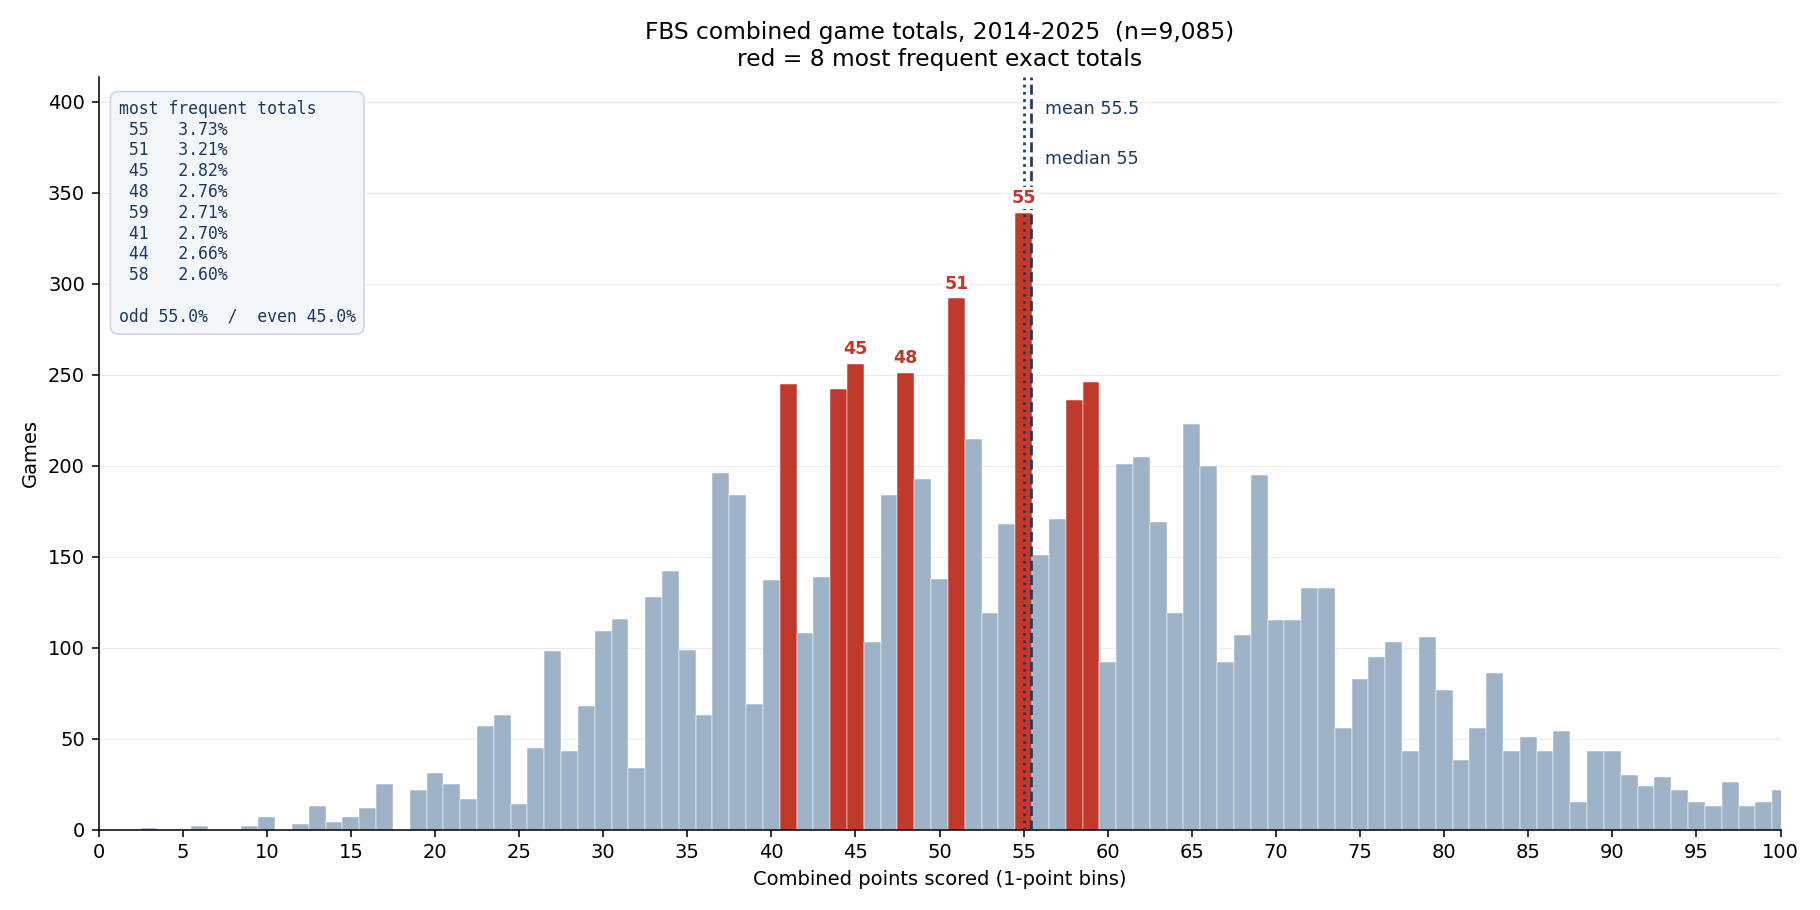
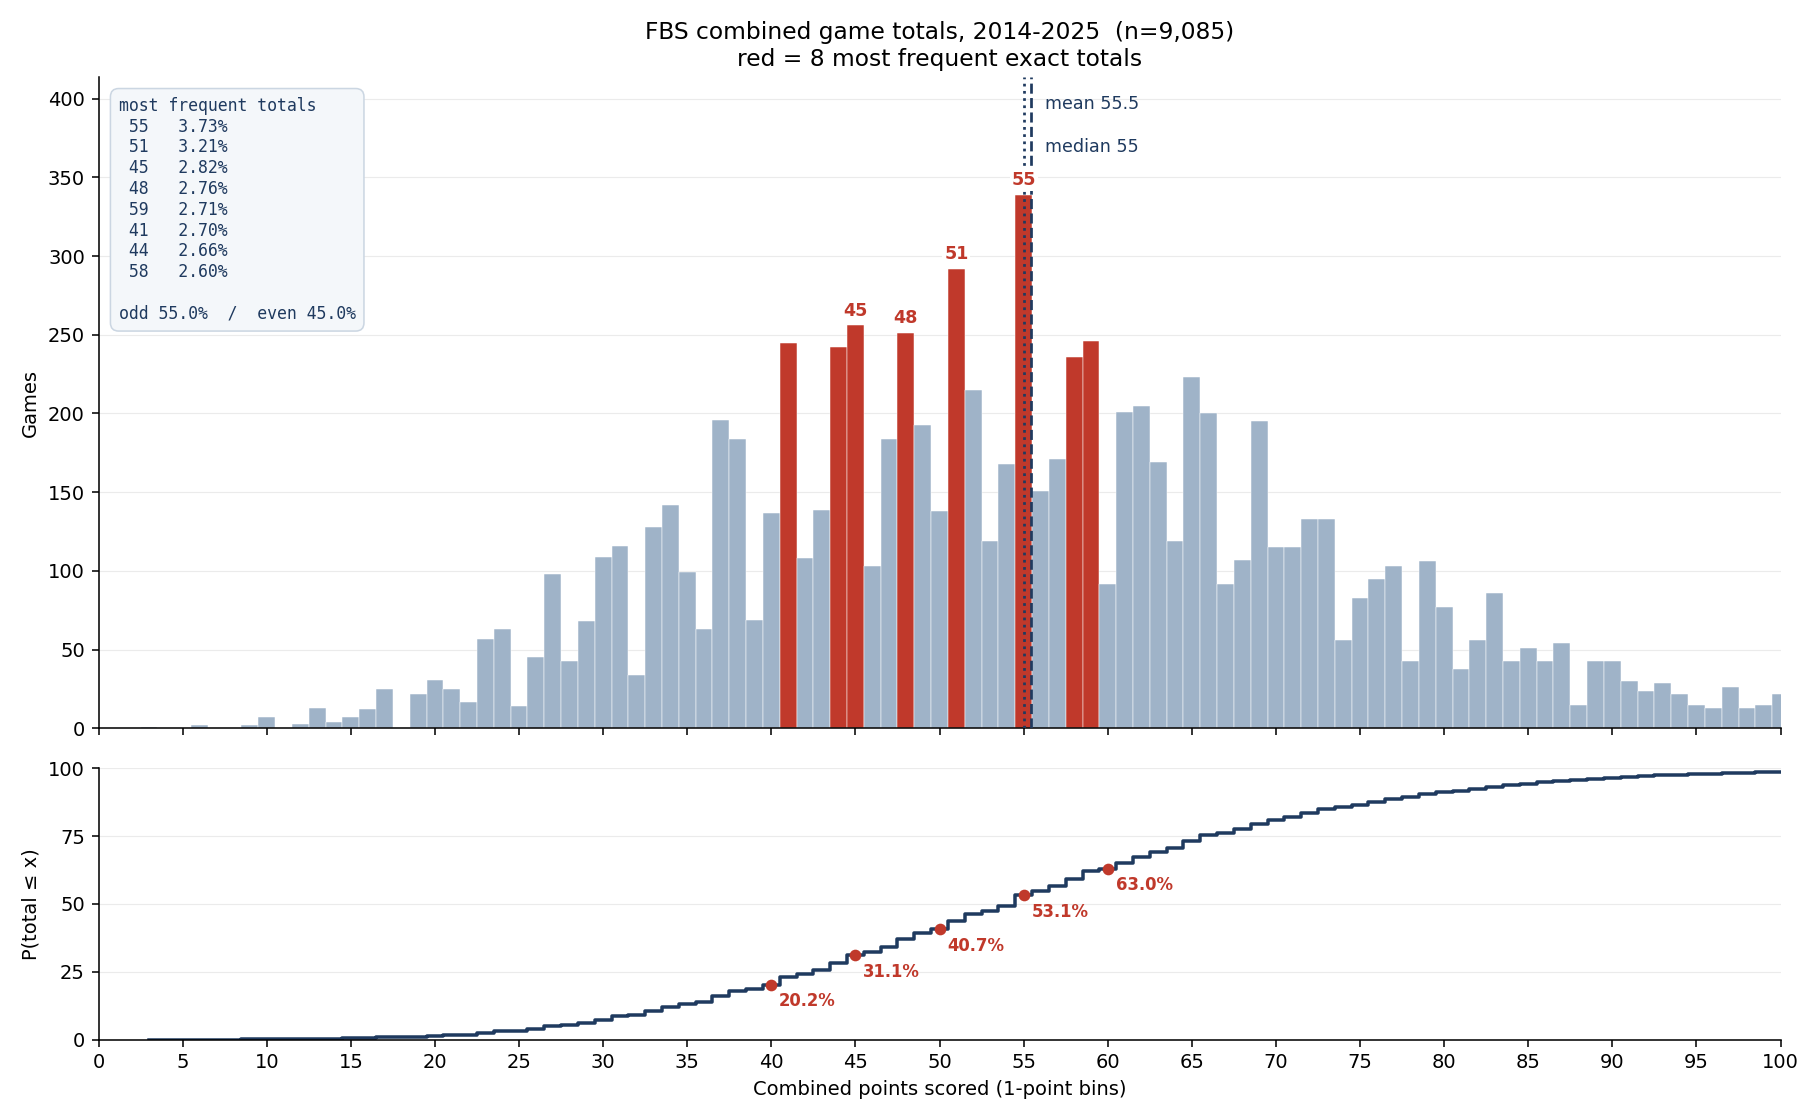
feat(scripts): add a cumulative panel to the totals distribution chart
Requested on the reference artifact. The histogram now sits above a
P(total <= x) step curve with the five exceedance lines marked, matching the
treatment already used in the scoring-margin chart, and the CSV gains a
cumulative_pct column.

The exceedance table reports the complement, P(total > line), so the doc now
carries both columns and says which one the chart plots.

diff --git a/scripts/analyze_total_points_distribution.py b/scripts/analyze_total_points_distribution.py
@@ -129,15 +129,18 @@ for s in sorted(df["season"].unique()):
 
 csv_path = OUT.parent / "data" / "total-points-frequency.csv"
 csv_path.parent.mkdir(parents=True, exist_ok=True)
+cum = np.cumsum(counts) / n * 100.0
 with csv_path.open("w", encoding="utf-8") as fh:
-    fh.write("total_points,games,pct\n")
-    for v, c, p in zip(values, counts, pct):
-        fh.write(f"{v},{c},{p:.4f}\n")
+    fh.write("total_points,games,pct,cumulative_pct\n")
+    for v, c, p, cu in zip(values, counts, pct, cum):
+        fh.write(f"{v},{c},{p:.4f},{cu:.4f}\n")
 print(f"\nwrote {csv_path.relative_to(REPO)}")
 
 # ---- chart -----------------------------------------------------------------
 BASE, HILITE = "#9fb3c8", "#c0392b"
-fig, ax = plt.subplots(figsize=(13, 6.5), dpi=140)
+fig, (ax, ax2) = plt.subplots(
+    2, 1, figsize=(13, 8), dpi=140, sharex=True, gridspec_kw={"height_ratios": [2.4, 1]}
+)
 
 colors = [HILITE if v in top_values else BASE for v in values]
 ax.bar(values, counts, width=1.0, color=colors, edgecolor="white", linewidth=0.25)
@@ -179,10 +182,7 @@ ax.text(
     bbox=dict(boxstyle="round,pad=0.5", fc="#f4f7fa", ec="#cbd6e2", lw=0.8),
 )
 
-ax.set_xlim(lo - 1, args.xmax)
 ax.set_ylim(0, ymax * 1.22)
-ax.set_xticks(np.arange(0, args.xmax + 1, 5))
-ax.set_xlabel("Combined points scored (1-point bins)")
 ax.set_ylabel("Games")
 ax.set_title(
     f"FBS combined game totals, {args.start}-{args.end}  (n={n:,})\n"
@@ -191,8 +191,35 @@ ax.set_title(
 )
 ax.grid(axis="y", alpha=0.25, lw=0.6)
 ax.set_axisbelow(True)
-for side in ("top", "right"):
-    ax.spines[side].set_visible(False)
+
+# Cumulative panel. Reported as P(total <= x); the exceedance figures printed
+# above are the complement, so 55 reads 53.1% here and 46.9% there.
+ax2.step(values, cum, where="mid", color="#1f3a5f", lw=1.8)
+for k in (40, 45, 50, 55, 60):
+    # `values` starts at `lo`, not 0 -- index by offset, not by the total itself.
+    j = k - lo
+    ax2.plot([k], [cum[j]], "o", color=HILITE, ms=5, zorder=4)
+    ax2.annotate(
+        f"{cum[j]:.1f}%",
+        xy=(k, cum[j]),
+        xytext=(4, -11),
+        textcoords="offset points",
+        fontsize=8.5,
+        color=HILITE,
+        fontweight="bold",
+    )
+ax2.set_ylim(0, 100)
+ax2.set_yticks([0, 25, 50, 75, 100])
+ax2.set_ylabel("P(total ≤ x)")
+ax2.set_xlabel("Combined points scored (1-point bins)")
+ax2.set_xlim(lo - 1, args.xmax)
+ax2.set_xticks(np.arange(0, args.xmax + 1, 5))
+ax2.grid(axis="y", alpha=0.25, lw=0.6)
+ax2.set_axisbelow(True)
+
+for a in (ax, ax2):
+    for side in ("top", "right"):
+        a.spines[side].set_visible(False)
 
 fig.tight_layout()
 png = OUT / "total-points-distribution.png"

diff --git a/docs/total-points-distribution-2026-09-17.md b/docs/total-points-distribution-2026-09-17.md
@@ -68,13 +68,16 @@ establish.
 
 Exceedance, for sizing a line:
 
-| Line | P(total > line) |
-| --- | --- |
-| 40 | 79.79% |
-| 45 | 68.89% |
-| 50 | 59.33% |
-| 55 | 46.86% |
-| 60 | 37.00% |
+| Line | P(total > line) | P(total ≤ line) |
+| --- | --- | --- |
+| 40 | 79.79% | 20.21% |
+| 45 | 68.89% | 31.11% |
+| 50 | 59.33% | 40.67% |
+| 55 | 46.86% | 53.14% |
+| 60 | 37.00% | 63.01% |
+
+The chart's lower panel plots the cumulative curve, `P(total ≤ x)`, with these five lines marked
+— so a value read off the chart is the complement of the exceedance column, not the same number.
 
 ## Scoring is drifting down
 
@@ -126,6 +129,6 @@ python scripts/analyze_total_points_distribution.py --start 2014 --end 2025
 ```
 
 Writes `docs/img/total-points-distribution.png` (committed) and the full per-integer
-frequency table to `docs/data/total-points-frequency.csv` (generated on each run, not
+frequency and cumulative table to `docs/data/total-points-frequency.csv` (generated on each run, not
 committed — `docs/data/` is covered by the repo's `data/` ignore rule). Prints every number
 quoted above.
